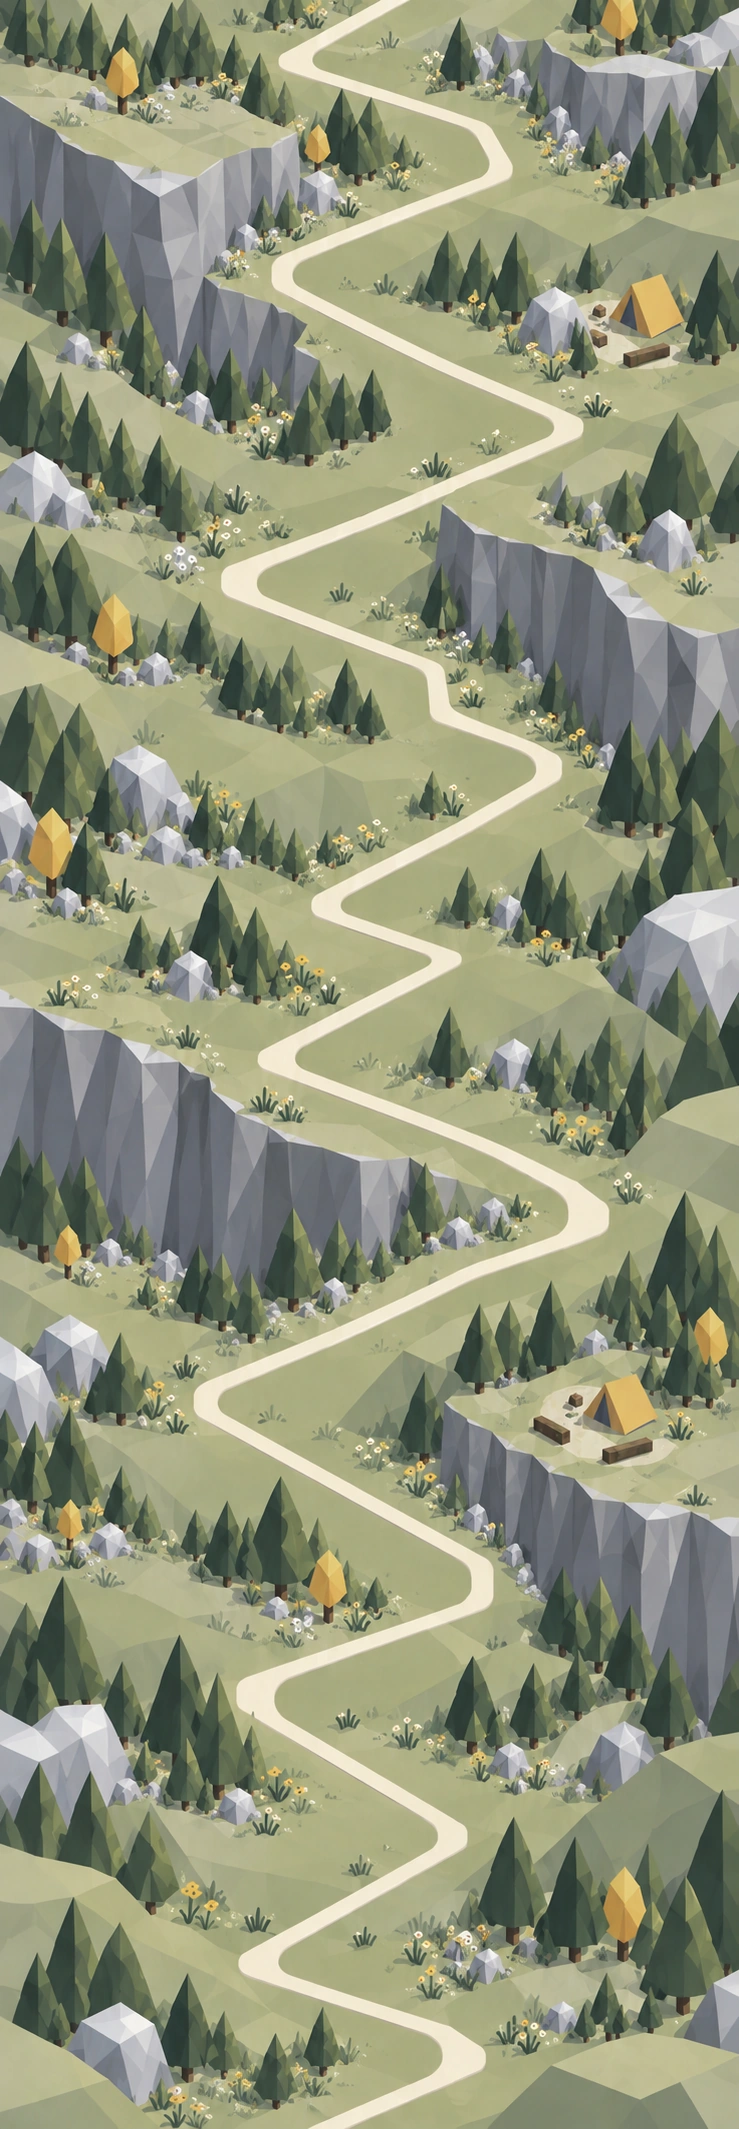
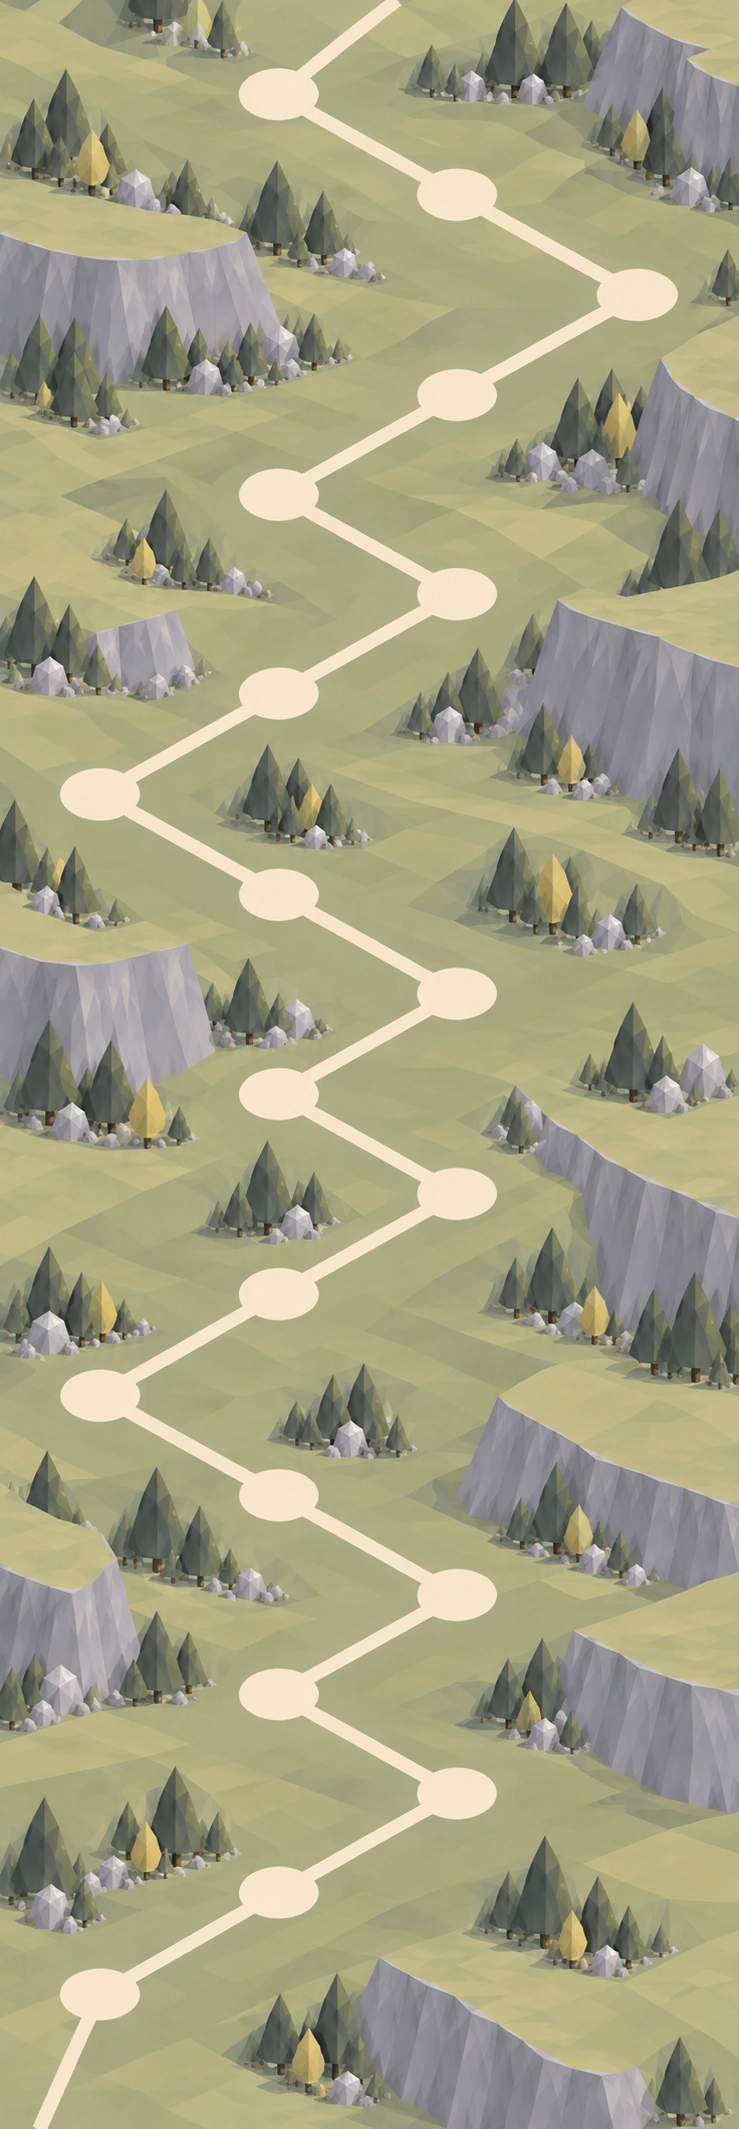
Place stages on the approved twenty-clearing map with equal steps and deep turns

diff --git a/js/map-art.js b/js/map-art.js
@@ -15,9 +15,10 @@ function mapWallMarkup(n) {
         <text x="53" y="82" transform="rotate(-21 53 82)" text-anchor="middle" fill="var(--number-color,#fffdf3)" font-size="22" font-weight="800" font-family="system-ui,sans-serif">${n}</text>
     </svg>`;
 }
-// Approved wallpaper, with its painted route traced in original 739 x 2129 coordinates.
+// Approved 20-clearing wallpaper. One or two equal steps between deep turns.
 const MAP_IMAGE_WIDTH=739, MAP_IMAGE_HEIGHT=2129;
-const MAP_TRAIL=[[437.0,2030],[402.0,2018],[364.0,2006],[326.5,1994],[290.5,1982],[261.5,1970],[259.5,1958],[272.0,1946],[293.0,1934],[316.0,1922],[337.5,1910],[359.0,1898],[380.5,1886],[401.0,1874],[423.0,1862],[444.0,1850],[452.5,1838],[450.0,1826],[432.0,1814],[412.0,1802],[391.5,1790],[371.5,1778],[351.5,1766],[331.0,1754],[310.5,1742],[290.5,1730],[270.5,1718],[257.0,1706],[255.5,1694],[260.0,1682],[287.0,1670],[321.5,1658],[356.5,1646],[391.0,1634],[426.5,1622],[460.0,1610],[480.0,1598],[482.5,1586],[482.0,1574],[477.5,1562],[457.5,1550],[435.5,1538],[413.5,1526],[391.5,1514],[369.5,1502],[348.0,1490],[326.5,1478],[304.5,1466],[282.5,1454],[260.5,1442],[239.0,1430],[217.0,1418],[206.0,1406],[207.0,1394],[223.0,1382],[252.5,1370],[282.5,1358],[310.5,1346],[338.5,1334],[364.0,1322],[390.0,1310],[417.0,1298],[441.5,1286],[468.0,1274],[499.0,1262],[534.5,1250],[568.5,1238],[587.0,1226],[589.0,1214],[585.5,1202],[572.0,1190],[552.0,1178],[529.0,1166],[504.5,1154],[477.5,1142],[447.5,1130],[416.0,1118],[383.5,1106],[351.5,1094],[319.0,1082],[287.0,1070],[276.5,1058],[285.5,1046],[309.0,1034],[332.5,1022],[355.5,1010],[379.0,998],[402.5,986],[426.0,974],[446.5,962],[434.0,950],[398.5,938],[363.5,926],[331.0,914],[326.5,902],[340.5,890],[363.5,878],[385.0,866],[410.5,854],[434.0,842],[457.0,830],[479.0,818],[499.5,806],[520.0,794],[540.5,782],[549.5,770],[546.5,758],[525.5,746],[494.0,734],[461.0,722],[442.0,710],[438.5,698],[437.0,686],[435.5,674],[420.0,662],[388.0,650],[356.0,638],[324.0,626],[292.5,614],[262.0,602],[241.0,590],[239.5,578],[248.5,566],[280.0,554],[311.5,542],[342.5,530],[373.0,518],[402.0,506],[430.0,494],[456.0,482],[485.5,470],[513.5,458],[541.0,446],[566.5,434],[568.0,422],[548.0,410],[520.0,398],[491.5,386],[463.5,374],[437.0,362],[411.5,350],[387.0,338],[363.0,326],[339.0,314],[315.0,302],[291.5,290],[282.0,278],[283.5,266],[300.0,254],[329.0,242],[359.0,230],[387.5,218],[420.0,206],[452.0,194],[483.0,182],[500.0,170],[500.0,170]];
+const MAP_EDGE_SPACE=88, MAP_BOTTOM_SPACE=28;
+const MAP_TRAIL=[[100,1995],[280,1895],[460,1795],[280,1695],[460,1595],[280,1495],[100,1395],[280,1295],[460,1195],[280,1095],[460,995],[280,895],[100,795],[280,695],[460,595],[280,495],[460,395],[640,295],[460,195],[280,95]];
 const MAP_TRAIL_LENGTHS=[0];
 for(let i=1;i<MAP_TRAIL.length;i++) {
     const a=MAP_TRAIL[i-1],b=MAP_TRAIL[i];
@@ -31,8 +32,12 @@ function mapTrailPoint(t) {
     const f=(distance-MAP_TRAIL_LENGTHS[i-1])/(MAP_TRAIL_LENGTHS[i]-MAP_TRAIL_LENGTHS[i-1]||1);
     return {x:a[0]+(b[0]-a[0])*f,y:a[1]+(b[1]-a[1])*f};
 }
-function mapSceneryMarkup(height) {
+function mapSceneryMarkup() {
     const width=ui.mapTrack.clientWidth||400;
     const imageHeight=width*MAP_IMAGE_HEIGHT/MAP_IMAGE_WIDTH;
-    return `<image href="assets/stage-map.webp" x="0" y="0" width="400" height="${imageHeight}" preserveAspectRatio="none"/>`;
+    // Extend the image edges behind controls without duplicating stage clearings.
+    return `<defs><image id="map-artwork" href="assets/stage-map.webp" x="0" y="0" width="400" height="${imageHeight}" preserveAspectRatio="none"/></defs>
+        <use href="#map-artwork" transform="translate(0 ${MAP_EDGE_SPACE}) scale(1 -4)"/>
+        <use href="#map-artwork" transform="translate(0 ${MAP_EDGE_SPACE+imageHeight*2}) scale(1 -1)"/>
+        <use href="#map-artwork" transform="translate(0 ${MAP_EDGE_SPACE})"/>`;
 }

diff --git a/js/level-map.js b/js/level-map.js
@@ -61,12 +61,12 @@ function mapBounds() {
     return {first:Math.max(1,mapPage*MAP_PAGE_SIZE),last:(mapPage+1)*MAP_PAGE_SIZE};
 }
 function mapHeight() {
-    return (ui.mapTrack.clientWidth||400)*MAP_IMAGE_HEIGHT/MAP_IMAGE_WIDTH;
+    return (ui.mapTrack.clientWidth||400)*MAP_IMAGE_HEIGHT/MAP_IMAGE_WIDTH+MAP_EDGE_SPACE+MAP_BOTTOM_SPACE;
 }
 function mapPoint(n) {
-    if(n===mapPage*MAP_PAGE_SIZE)return {x:42,y:mapHeight()-38};
+    if(n===mapPage*MAP_PAGE_SIZE)return {x:8.5,y:mapHeight()-MAP_BOTTOM_SPACE-12};
     const point=mapTrailPoint((n-mapPage*MAP_PAGE_SIZE-1)/(MAP_PAGE_SIZE-1));
-    return {x:point.x/MAP_IMAGE_WIDTH*100,y:point.y/MAP_IMAGE_WIDTH*(ui.mapTrack.clientWidth||400)};
+    return {x:point.x/MAP_IMAGE_WIDTH*100,y:MAP_EDGE_SPACE+point.y/MAP_IMAGE_WIDTH*(ui.mapTrack.clientWidth||400)};
 }
 function positionMapMarker(point) {
     ui.mapMarker.style.left = `calc(${point.x}% + 22px)`;
@@ -142,7 +142,7 @@ function advanceLevelMap(now) {
     const from=mapPoint(mapTransition.from),to=mapPoint(mapTransition.to);
     if(mapTransition.from>mapPage*MAP_PAGE_SIZE) {
         const point=mapTrailPoint((mapTransition.from-mapPage*MAP_PAGE_SIZE-1+s)/(MAP_PAGE_SIZE-1));
-        positionMapMarker({x:point.x/MAP_IMAGE_WIDTH*100,y:point.y/MAP_IMAGE_WIDTH*(ui.mapTrack.clientWidth||400)});
+        positionMapMarker({x:point.x/MAP_IMAGE_WIDTH*100,y:MAP_EDGE_SPACE+point.y/MAP_IMAGE_WIDTH*(ui.mapTrack.clientWidth||400)});
     } else positionMapMarker({x:from.x+(to.x-from.x)*s,y:from.y+(to.y-from.y)*s});
     if (t===1) {
         mapSelected=mapTransition.to;mapTransition=null;
